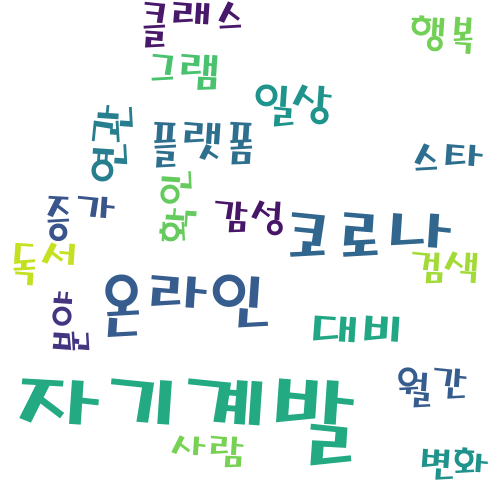
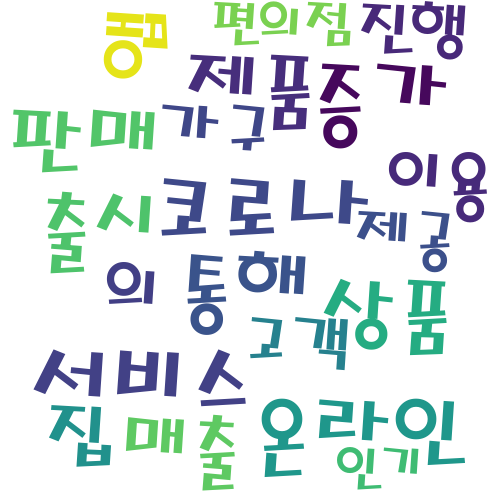
Add final project

diff --git a/news/views.py b/news/views.py
@@ -1,7 +1,6 @@
-# Create your views here.
-# from django.shortcuts import render
 from django.http import HttpResponse
 from django.template import loader
+
 import requests
 from bs4 import BeautifulSoup
 
@@ -10,71 +9,64 @@ from konlpy.tag import Okt
 from collections import Counter
 import matplotlib.pyplot as plt
 
-# f = open('url.txt', 'w')
-# page_counter = 1
-# url_count = 0
-#
-# for i in range(1, 6):
-#     html = requests.get(f'http://www.dailypop.kr/news/articleList.html?page={i}&total=168&sc_section_code'
-#                         '=&sc_sub_section_code=&sc_serial_code=&sc_area=A&sc_level=&sc_article_type=&sc_view_level'
-#                         '=&sc_sdate=&sc_edate=&sc_serial_number=&sc_word=%EC%A7%91%EC%BD%95')
-#     soup = BeautifulSoup(html.content, 'html.parser')
-#     url_list = soup.find(class_='article-list-content text-left').find_all('a')
-#
-#     for link in url_list:
-#         if url_count == 99:
-#             f.write('http://www.dailypop.kr/'+link.get('href'))
-#         else:
-#             f.write('http://www.dailypop.kr/' + link.get('href')+'\n')
-#         url_count += 1
-# f.close()
-#
-# for i in range(100):
-#     print(i)
+# url_list insert
+f = open('url.txt', 'w')
+page_counter = 1
+url_count = 0
 
-res = requests.get('http://www.dailypop.kr/news/articleView.html?idxno=47336')
-soup = BeautifulSoup(res.content, 'html.parser')
+for i in range(1, 6):
+    html = requests.get(f'http://www.dailypop.kr/news/articleList.html?page={i}&total=168&sc_section_code'
+                        '=&sc_sub_section_code=&sc_serial_code=&sc_area=A&sc_level=&sc_article_type=&sc_view_level'
+                        '=&sc_sdate=&sc_edate=&sc_serial_number=&sc_word=%EC%A7%91%EC%BD%95')
+    soup = BeautifulSoup(html.content, 'html.parser')
+    url_list = soup.find(class_='article-list-content text-left').find_all('a')
 
-body = soup.find(id='article-view-content-div').find_all('p')
-spwords = set(STOPWORDS)
-spwords.add('약')
-spwords.add('등')
-content = []
+    for link in url_list:
+        if url_count == 99:
+            f.write('http://www.dailypop.kr/'+link.get('href'))
+        else:
+            f.write(f'http://www.dailypop.kr/'+link.get('href')+'\n')
+        url_count += 1
+f.close()
+
+# url_list read
 stringTypeContent = ''
-for i, e in enumerate(body):
-    content.append(e.get_text())
-    stringTypeContent += e.get_text()
+with open('url.txt', 'r') as file:
+    for line in file:
+        line = line.strip('\n')
+        html = requests.get(line)
+        soup = BeautifulSoup(html.content, 'html.parser')
+        body = soup.find(id='article-view-content-div').find_all('p')
+        spwords = set(STOPWORDS)
+        for i, e in enumerate(body):
+            stringTypeContent += e.get_text()
+file.close()
+
 wc = WordCloud(font_path='/Library/Fonts/HMKMMAG.TTF', background_color='white',
                width=500, height=500, max_words=20, max_font_size=100, stopwords=spwords)
 okt = Okt()
 noun = okt.nouns(stringTypeContent)
 count = Counter(noun)
-
 noun_list = count.most_common()
-temp = []
-# print(noun_list)
-for i, noun in enumerate(dict(noun_list)):
-    if noun == '약' or noun == '수' or noun == '것' or noun == '위' or noun == '로' or noun == '등' or noun == '개':
-        temp.append(noun_list[i])
-        # noun_list.remove(noun_list[i])
 
+# stopwords 키워드 제거
+temp = []
+for i, noun in enumerate(dict(noun_list)):
+    if noun == '이' or noun == '위' or noun == '를' or noun == '등' or noun == '것' or noun == '로' or noun == '수':
+        temp.append(noun_list[i])
 for i, e in enumerate(temp):
     noun_list.remove(temp[i])
 
-# wc = wc.generate(stringTypeContent)
 wc.generate_from_frequencies(dict(noun_list))
 wc.to_file('./wc.png')
 plt.figure(figsize=(10, 8))
 plt.imshow(wc)
 plt.axis('off')
 plt.show()
+print('success')
 
 
 def index(request):
-    # return HttpResponse('검색하실 url을 입력해주세요.')
     template = loader.get_template('news/index.html')
 
-    return HttpResponse(template.render('a', request))
-
-# def detail(request, news_id):
-#     return HttpVResponse(body, news_id)
+    return HttpResponse(template.render('exit', request))
